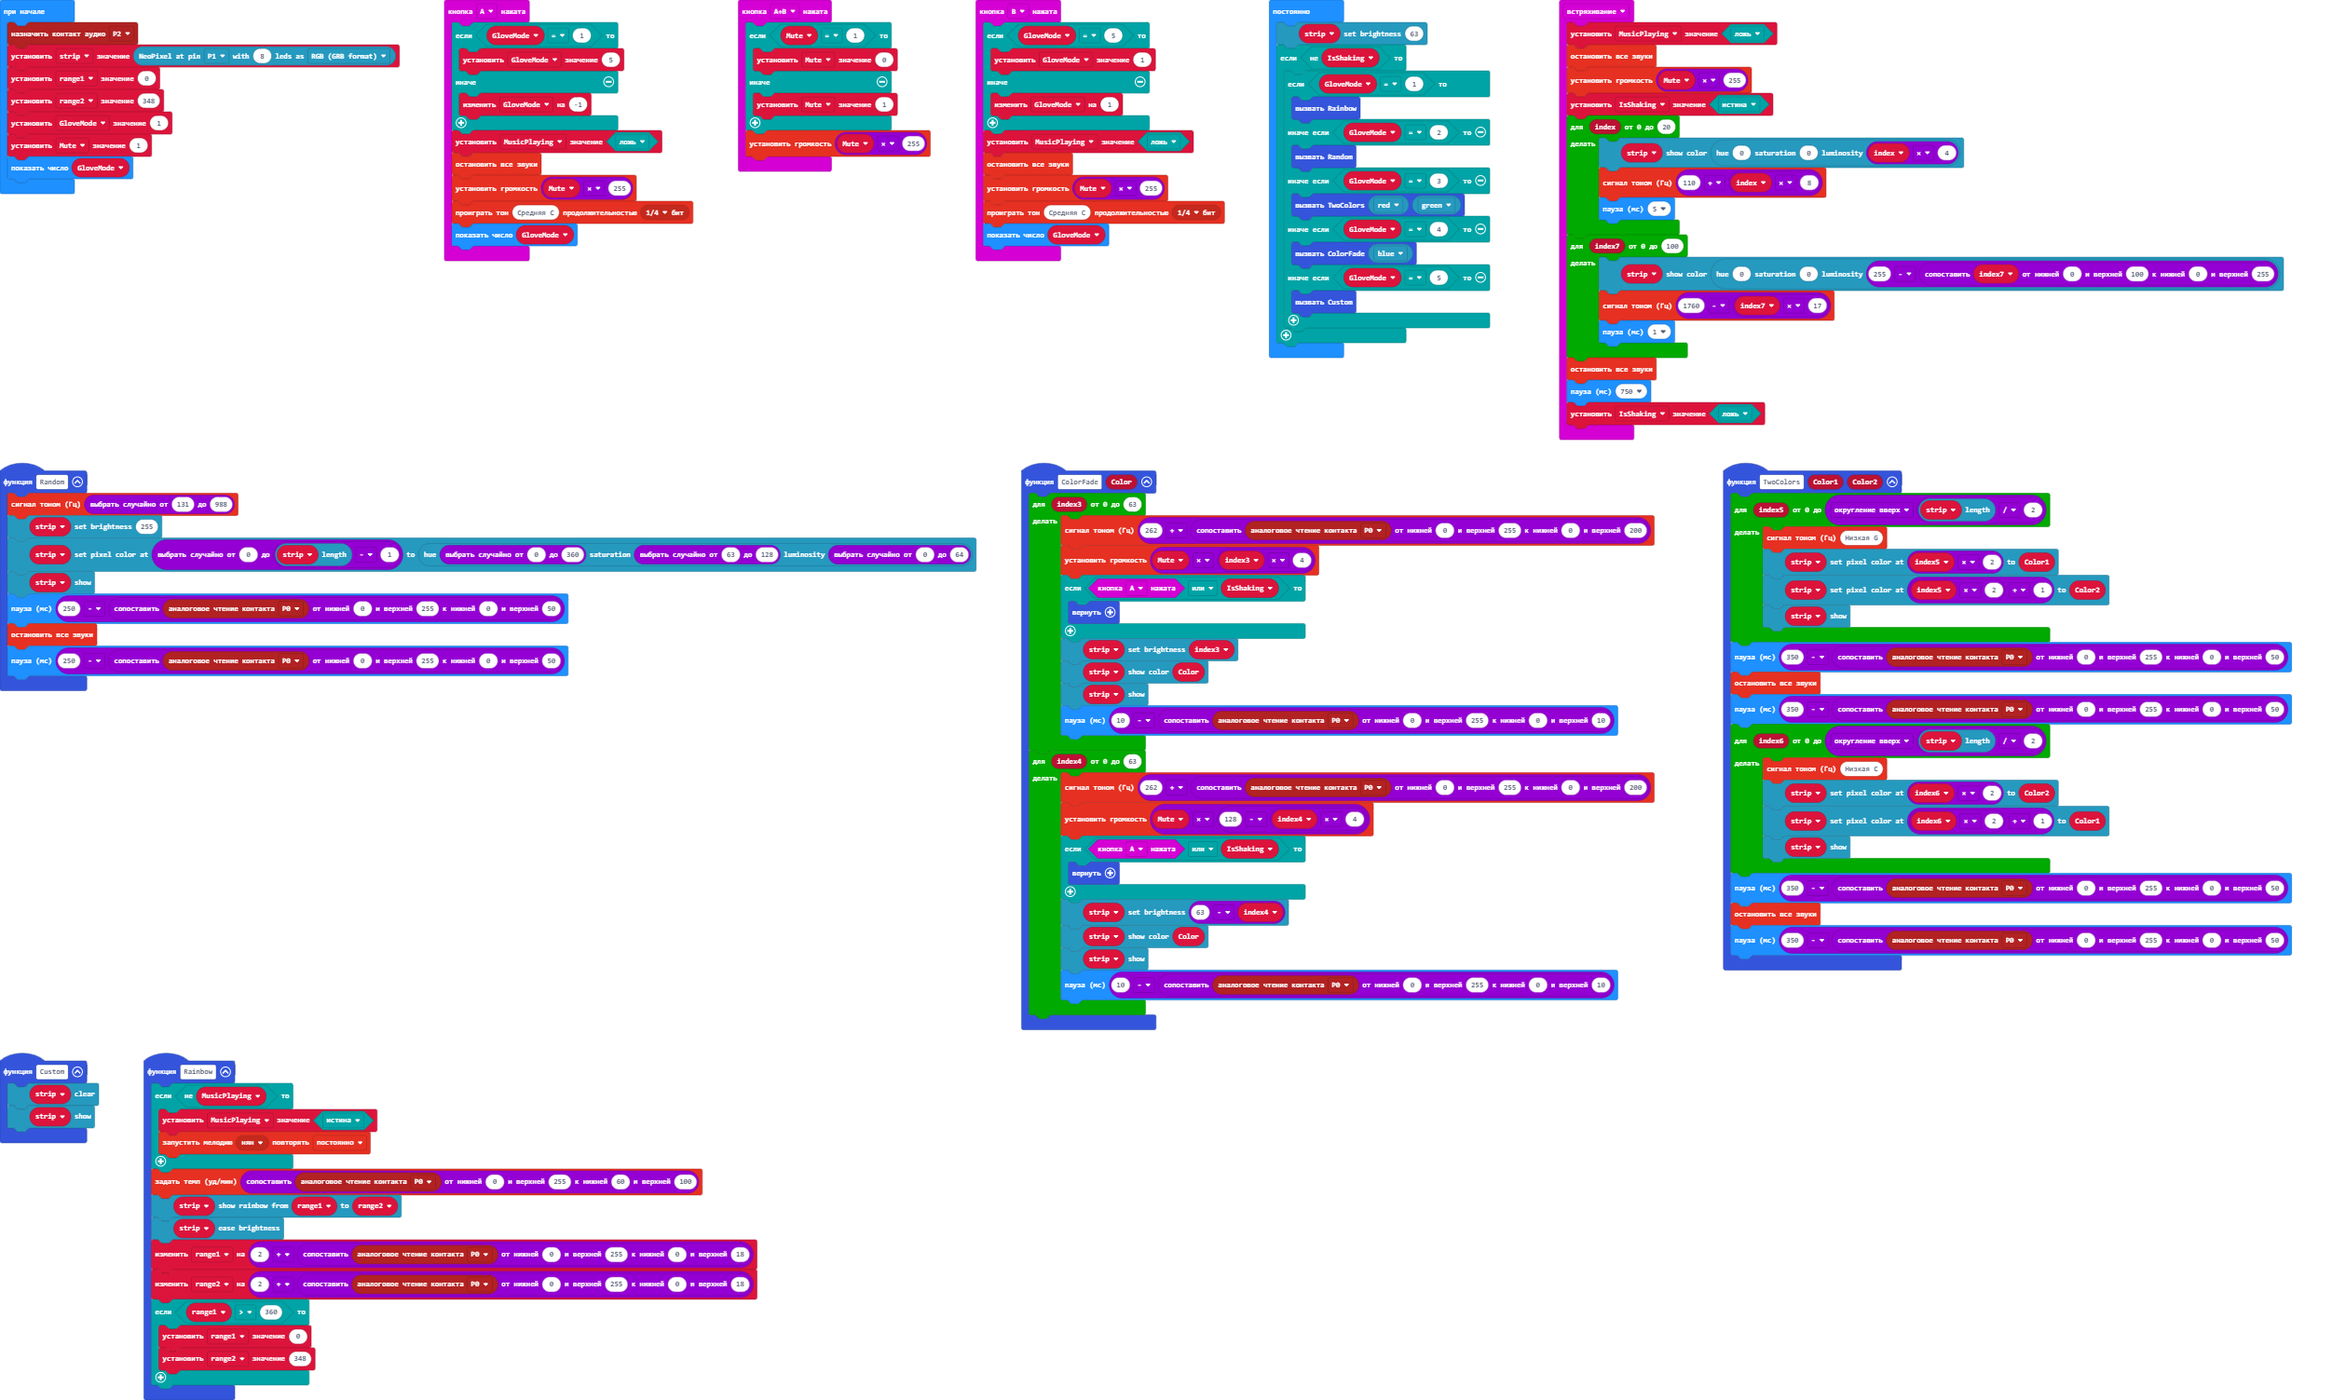
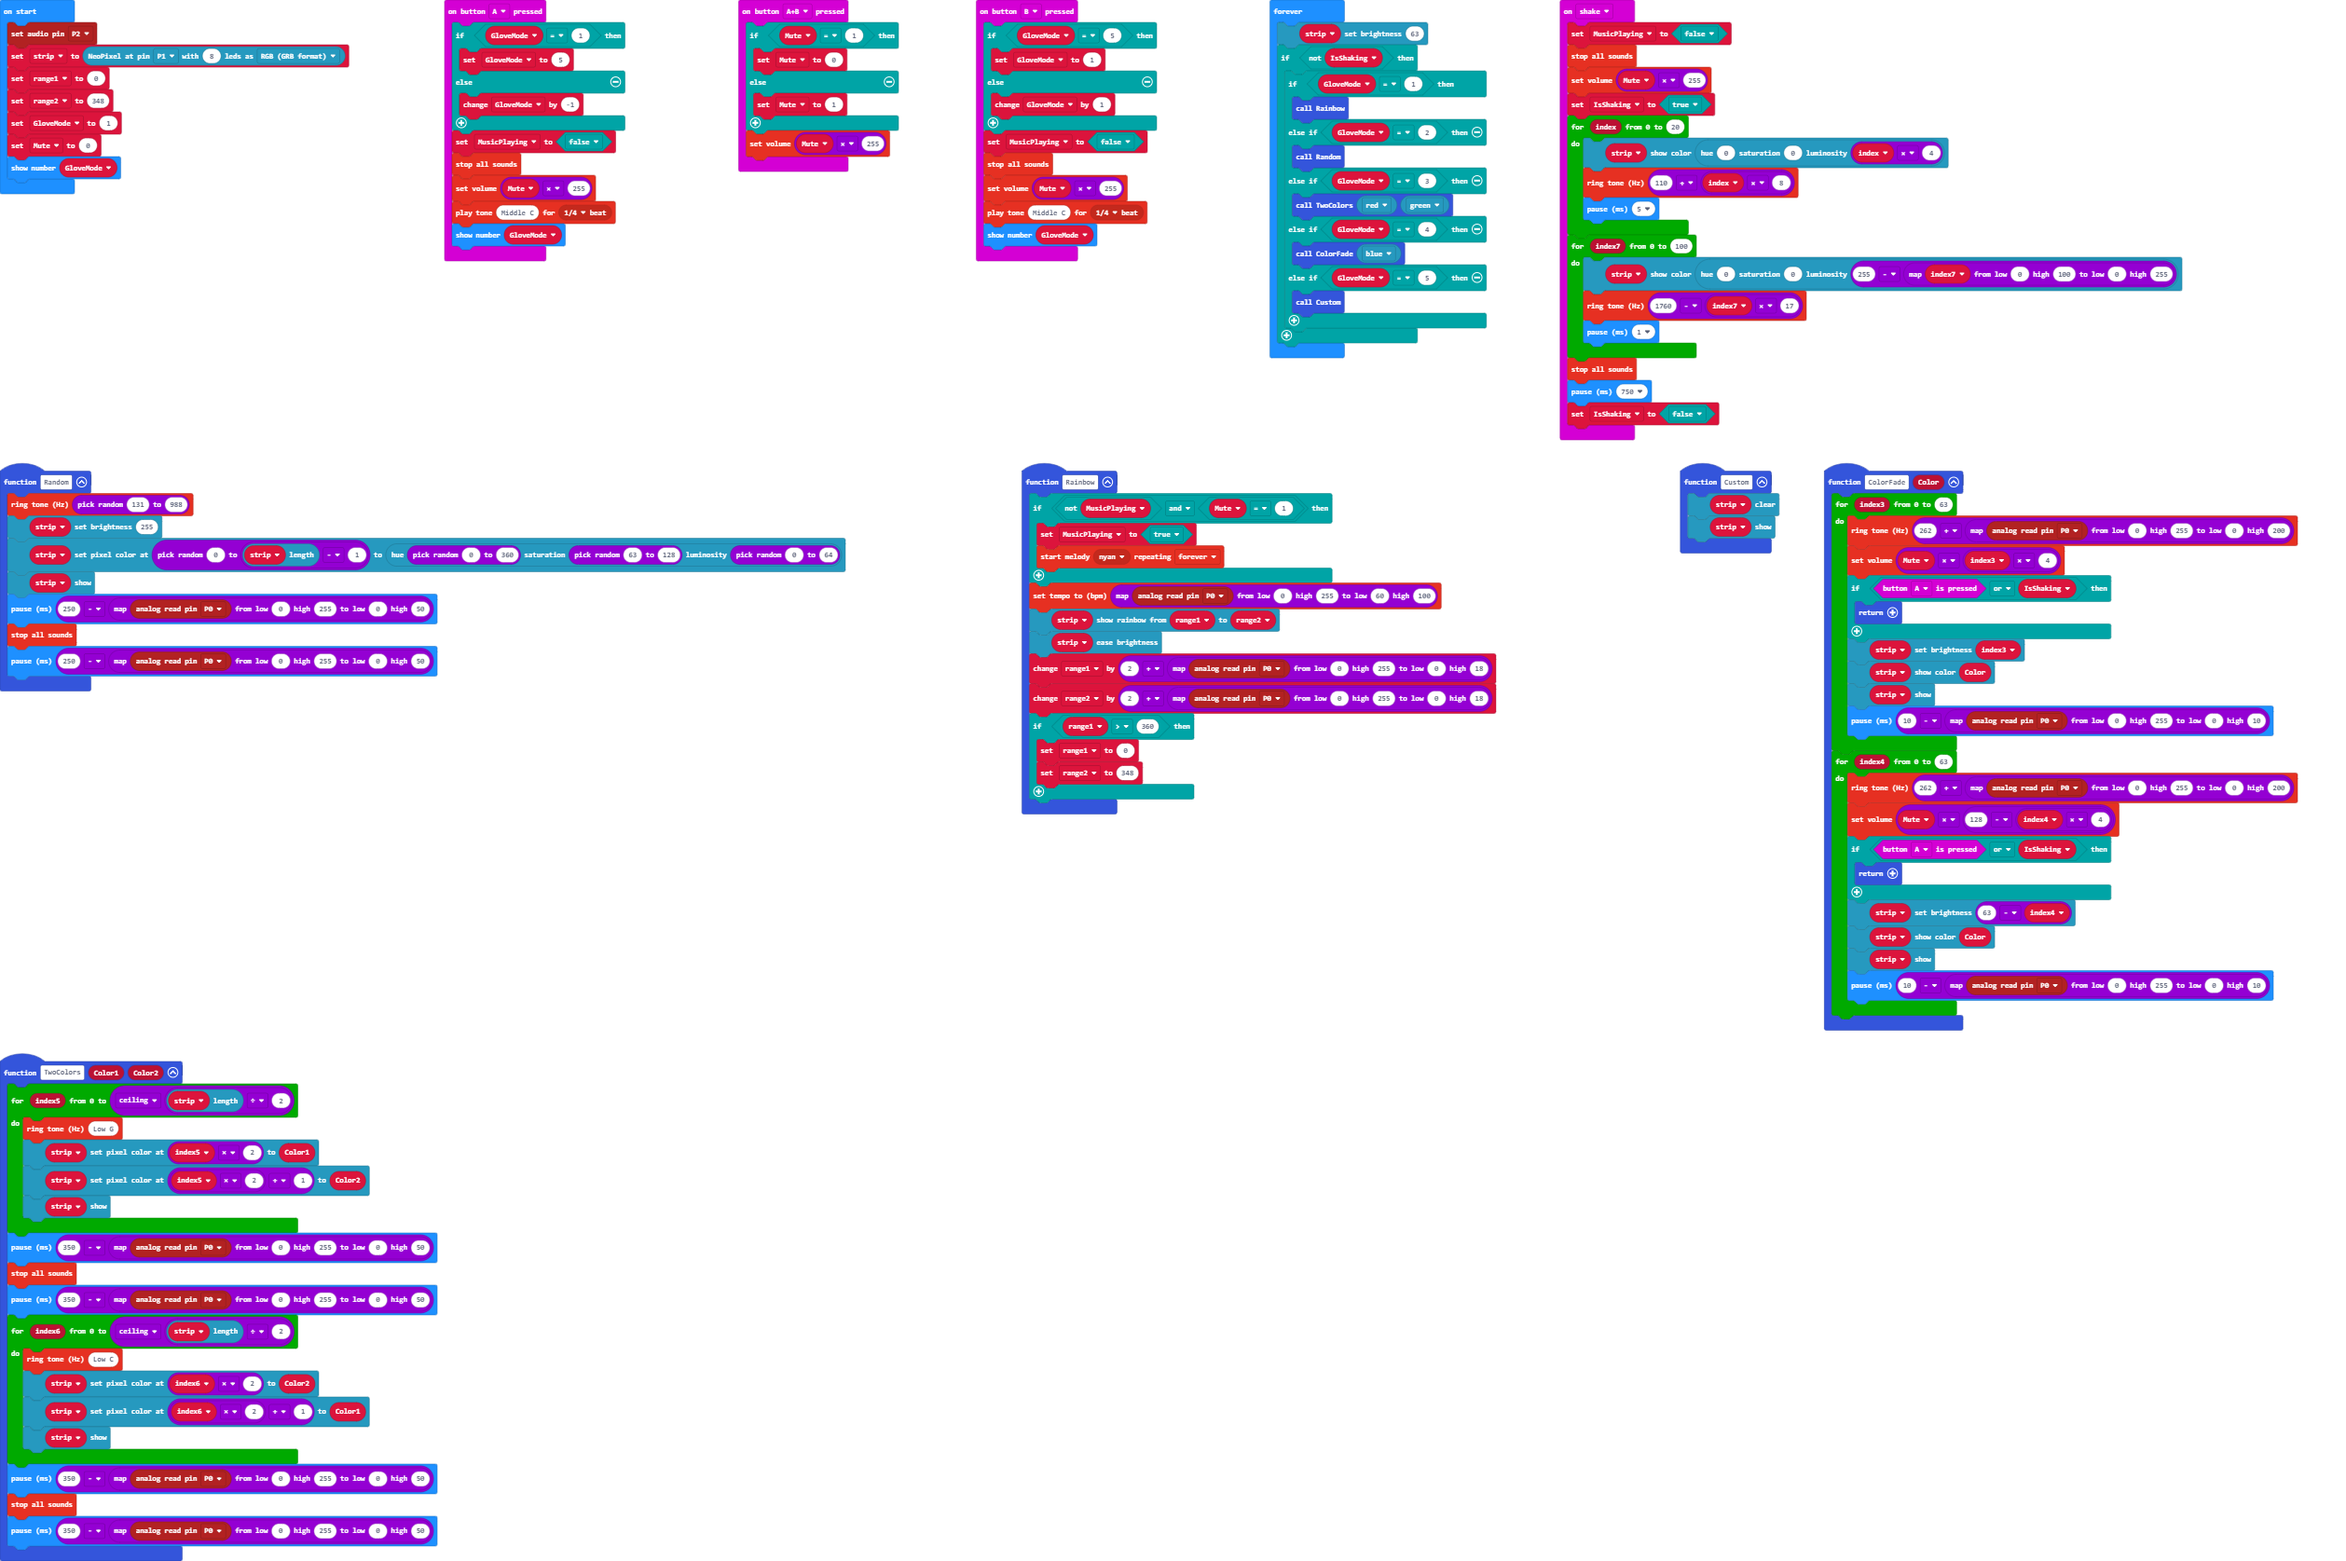
Update pxt.json, main.blocks, main.ts

Changed region(s): [[0.0, 0.0, 0.9972, 0.7345], [0.0, 0.6733, 0.3428, 1.0], [0.0, 0.0, 0.3116, 0.1836]]

diff --git a/main.ts b/main.ts
@@ -87,21 +87,6 @@ function Custom () {
     strip.clear()
     strip.show()
 }
-function Rainbow () {
-    if (!(MusicPlaying)) {
-        MusicPlaying = true
-        music.startMelody(music.builtInMelody(Melodies.Nyan), MelodyOptions.Forever)
-    }
-    music.setTempo(Math.map(pins.analogReadPin(AnalogPin.P0), 0, 255, 60, 100))
-    strip.showRainbow(range1, range2)
-    strip.easeBrightness()
-    range1 += 2 + Math.map(pins.analogReadPin(AnalogPin.P0), 0, 255, 0, 18)
-    range2 += 2 + Math.map(pins.analogReadPin(AnalogPin.P0), 0, 255, 0, 18)
-    if (range1 > 360) {
-        range1 = 0
-        range2 = 348
-    }
-}
 input.onGesture(Gesture.Shake, function () {
     MusicPlaying = false
     music.stopAllSounds()
@@ -121,6 +106,21 @@ input.onGesture(Gesture.Shake, function () {
     basic.pause(750)
     IsShaking = false
 })
+function Rainbow () {
+    if (!(MusicPlaying) && Mute == 1) {
+        MusicPlaying = true
+        music.startMelody(music.builtInMelody(Melodies.Nyan), MelodyOptions.Forever)
+    }
+    music.setTempo(Math.map(pins.analogReadPin(AnalogPin.P0), 0, 255, 60, 100))
+    strip.showRainbow(range1, range2)
+    strip.easeBrightness()
+    range1 += 2 + Math.map(pins.analogReadPin(AnalogPin.P0), 0, 255, 0, 18)
+    range2 += 2 + Math.map(pins.analogReadPin(AnalogPin.P0), 0, 255, 0, 18)
+    if (range1 > 360) {
+        range1 = 0
+        range2 = 348
+    }
+}
 let IsShaking = false
 let MusicPlaying = false
 let Mute = 0
@@ -133,7 +133,7 @@ strip = neopixel.create(DigitalPin.P1, 8, NeoPixelMode.RGB)
 range1 = 0
 range2 = 348
 GloveMode = 1
-Mute = 1
+Mute = 0
 basic.showNumber(GloveMode)
 basic.forever(function () {
     strip.setBrightness(63)
